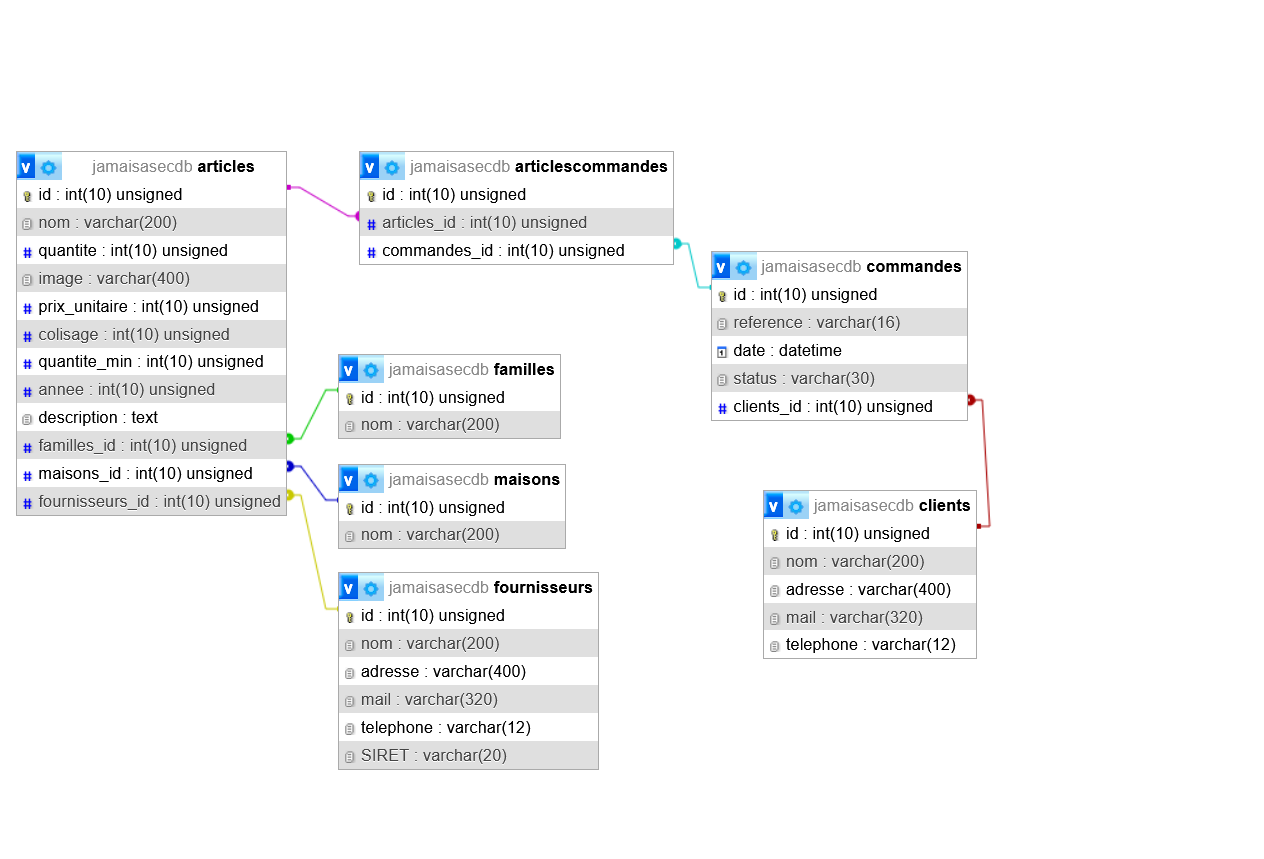
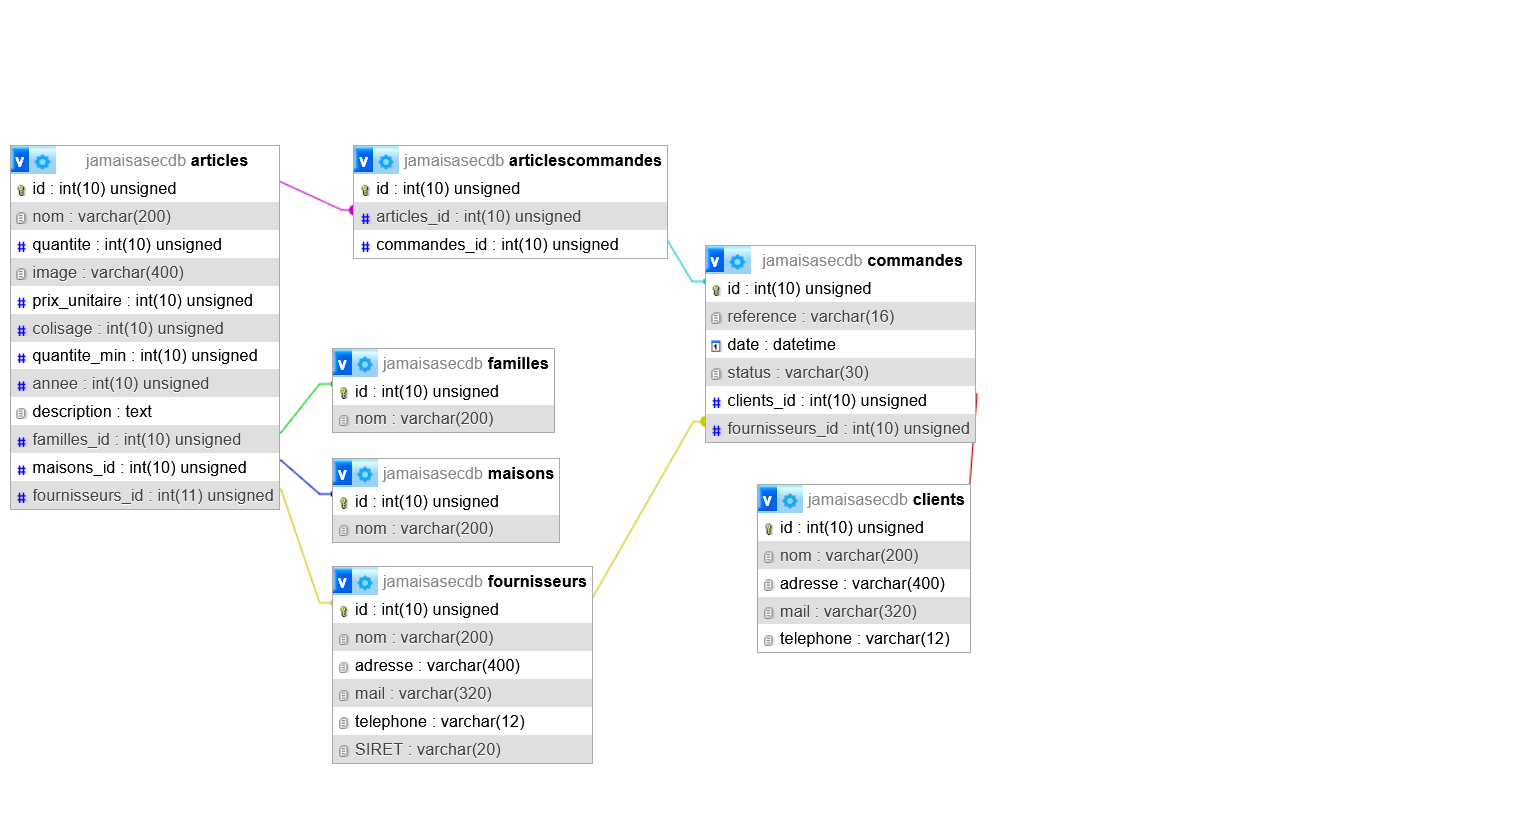
Reverted changes in database on Commandes.fournisseurs_id, and modified commandes controller and models to reflect the changes

Changed region(s): [[0.0, 0.1523, 0.7714, 0.944]]

diff --git a/JamaisASec-API/Controllers/CommandesController.cs b/JamaisASec-API/Controllers/CommandesController.cs
@@ -23,13 +23,17 @@ namespace JamaisASec.Controllers
                        join client in _context.Clients
                             on commande.Clients_ID equals client.ID into ClientGroup
                        from client in ClientGroup.DefaultIfEmpty()
+                       join fournisseur in _context.Fournisseurs
+                            on commande.Fournisseurs_id equals fournisseur.ID into fournisseurGroup
+                       from fournisseur in fournisseurGroup.DefaultIfEmpty()
                        select new
                        {
                            commande.ID,
                            commande.Reference,
                            commande.Date,
                            commande.Status,
-                           client
+                           client,
+                           fournisseur
                        };
 
 
@@ -50,6 +54,9 @@ namespace JamaisASec.Controllers
                        join client in _context.Clients
                             on commande.Clients_ID equals client.ID into ClientGroup
                        from client in ClientGroup.DefaultIfEmpty()
+                       join fournisseur in _context.Fournisseurs
+                            on commande.Fournisseurs_id equals fournisseur.ID into fournisseurGroup
+                       from fournisseur in fournisseurGroup.DefaultIfEmpty()
                        select new 
                        { 
                            commande.ID,
@@ -57,6 +64,7 @@ namespace JamaisASec.Controllers
                            commande.Date,
                            commande.Status,
                            client, 
+                           fournisseur,
                        };
 
 
@@ -110,6 +118,7 @@ namespace JamaisASec.Controllers
             existingCommande.Date = commande.Date;
             existingCommande.Status = commande.Status;
             existingCommande.Clients_ID = commande.Clients_ID;
+            existingCommande.Fournisseurs_id = commande.Fournisseurs_id;
 
             try
             {

diff --git a/JamaisASec-API/Models/Commandes.cs b/JamaisASec-API/Models/Commandes.cs
@@ -8,6 +8,7 @@ public class Commandes {
    
     // ? signifie peut-être null
     public int? Clients_ID { get; set; }
+    public int? Fournisseurs_id { get; set; }
 
 }
 
